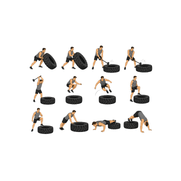
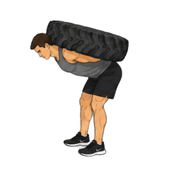
fix: correct variable name typo from $exercises to $execises in multiple seeders

Changed region(s): [[0.1657, 0.1105, 0.8564, 0.884], [0.1657, 0.5801, 0.3039, 0.7459], [0.1657, 0.4144, 0.3039, 0.5801]]

diff --git a/database/seeders/ExerciseDataSeeder.php b/database/seeders/ExerciseDataSeeder.php
@@ -118,7 +118,7 @@ class ExerciseDataSeeder extends Seeder
             RomanChairSeeder::class,
             YokeSeeder::class,
             FarmersWalkHandlesSeeder::class,
-            AtlasStoneSeeder::class,
+            AtlasStoneSeeder::class,//
             TireSeeder::class,//
             ClubbellSeeder::class,//
             BulgarianBagSeeder::class, //

diff --git a/database/seeders/SuspensionTrainerSeeder.php b/database/seeders/SuspensionTrainerSeeder.php
@@ -60,7 +60,7 @@ class SuspensionTrainerSeeder extends Seeder
         $files = glob($sourceDir . '/*.png');
         sort($files);
 
-        foreach ($exercises as $i => $data) {
+        foreach ($execises as $i => $data) {
             $sourceFile = $files[$i] ?? null;
 
             if ($sourceFile) {

diff --git a/database/seeders/BulgarianBagSeeder.php b/database/seeders/BulgarianBagSeeder.php
@@ -55,7 +55,7 @@ class BulgarianBagSeeder extends Seeder
         $files = glob($sourceDir . '/*.png');
         sort($files);
 
-        foreach ($exercises as $i => $data) {
+        foreach ($execises as $i => $data) {
             $sourceFile = $files[$i] ?? null;
 
             if ($sourceFile) {

diff --git a/database/seeders/AtlasStoneSeeder.php b/database/seeders/AtlasStoneSeeder.php
@@ -53,7 +53,7 @@ class AtlasStoneSeeder extends Seeder
         $files = glob($sourceDir . '/*.png');
         sort($files);
 
-        foreach ($exercises as $i => $data) {
+        foreach ($execises as $i => $data) {
             $sourceFile = $files[$i] ?? null;
 
             if ($sourceFile) {

diff --git a/database/seeders/ClubbellSeeder.php b/database/seeders/ClubbellSeeder.php
@@ -57,7 +57,7 @@ class ClubbellSeeder extends Seeder
         $files = glob($sourceDir . '/*.png');
         sort($files);
 
-        foreach ($exercises as $i => $data) {
+        foreach ($execises as $i => $data) {
             $sourceFile = $files[$i] ?? null;
 
             if ($sourceFile) {

diff --git a/database/seeders/TireSeeder.php b/database/seeders/TireSeeder.php
@@ -56,7 +56,7 @@ class TireSeeder extends Seeder
         $files = glob($sourceDir . '/*.png');
         sort($files);
 
-        foreach ($exercises as $i => $data) {
+        foreach ($execises as $i => $data) {
             $sourceFile = $files[$i] ?? null;
 
             if ($sourceFile) {
